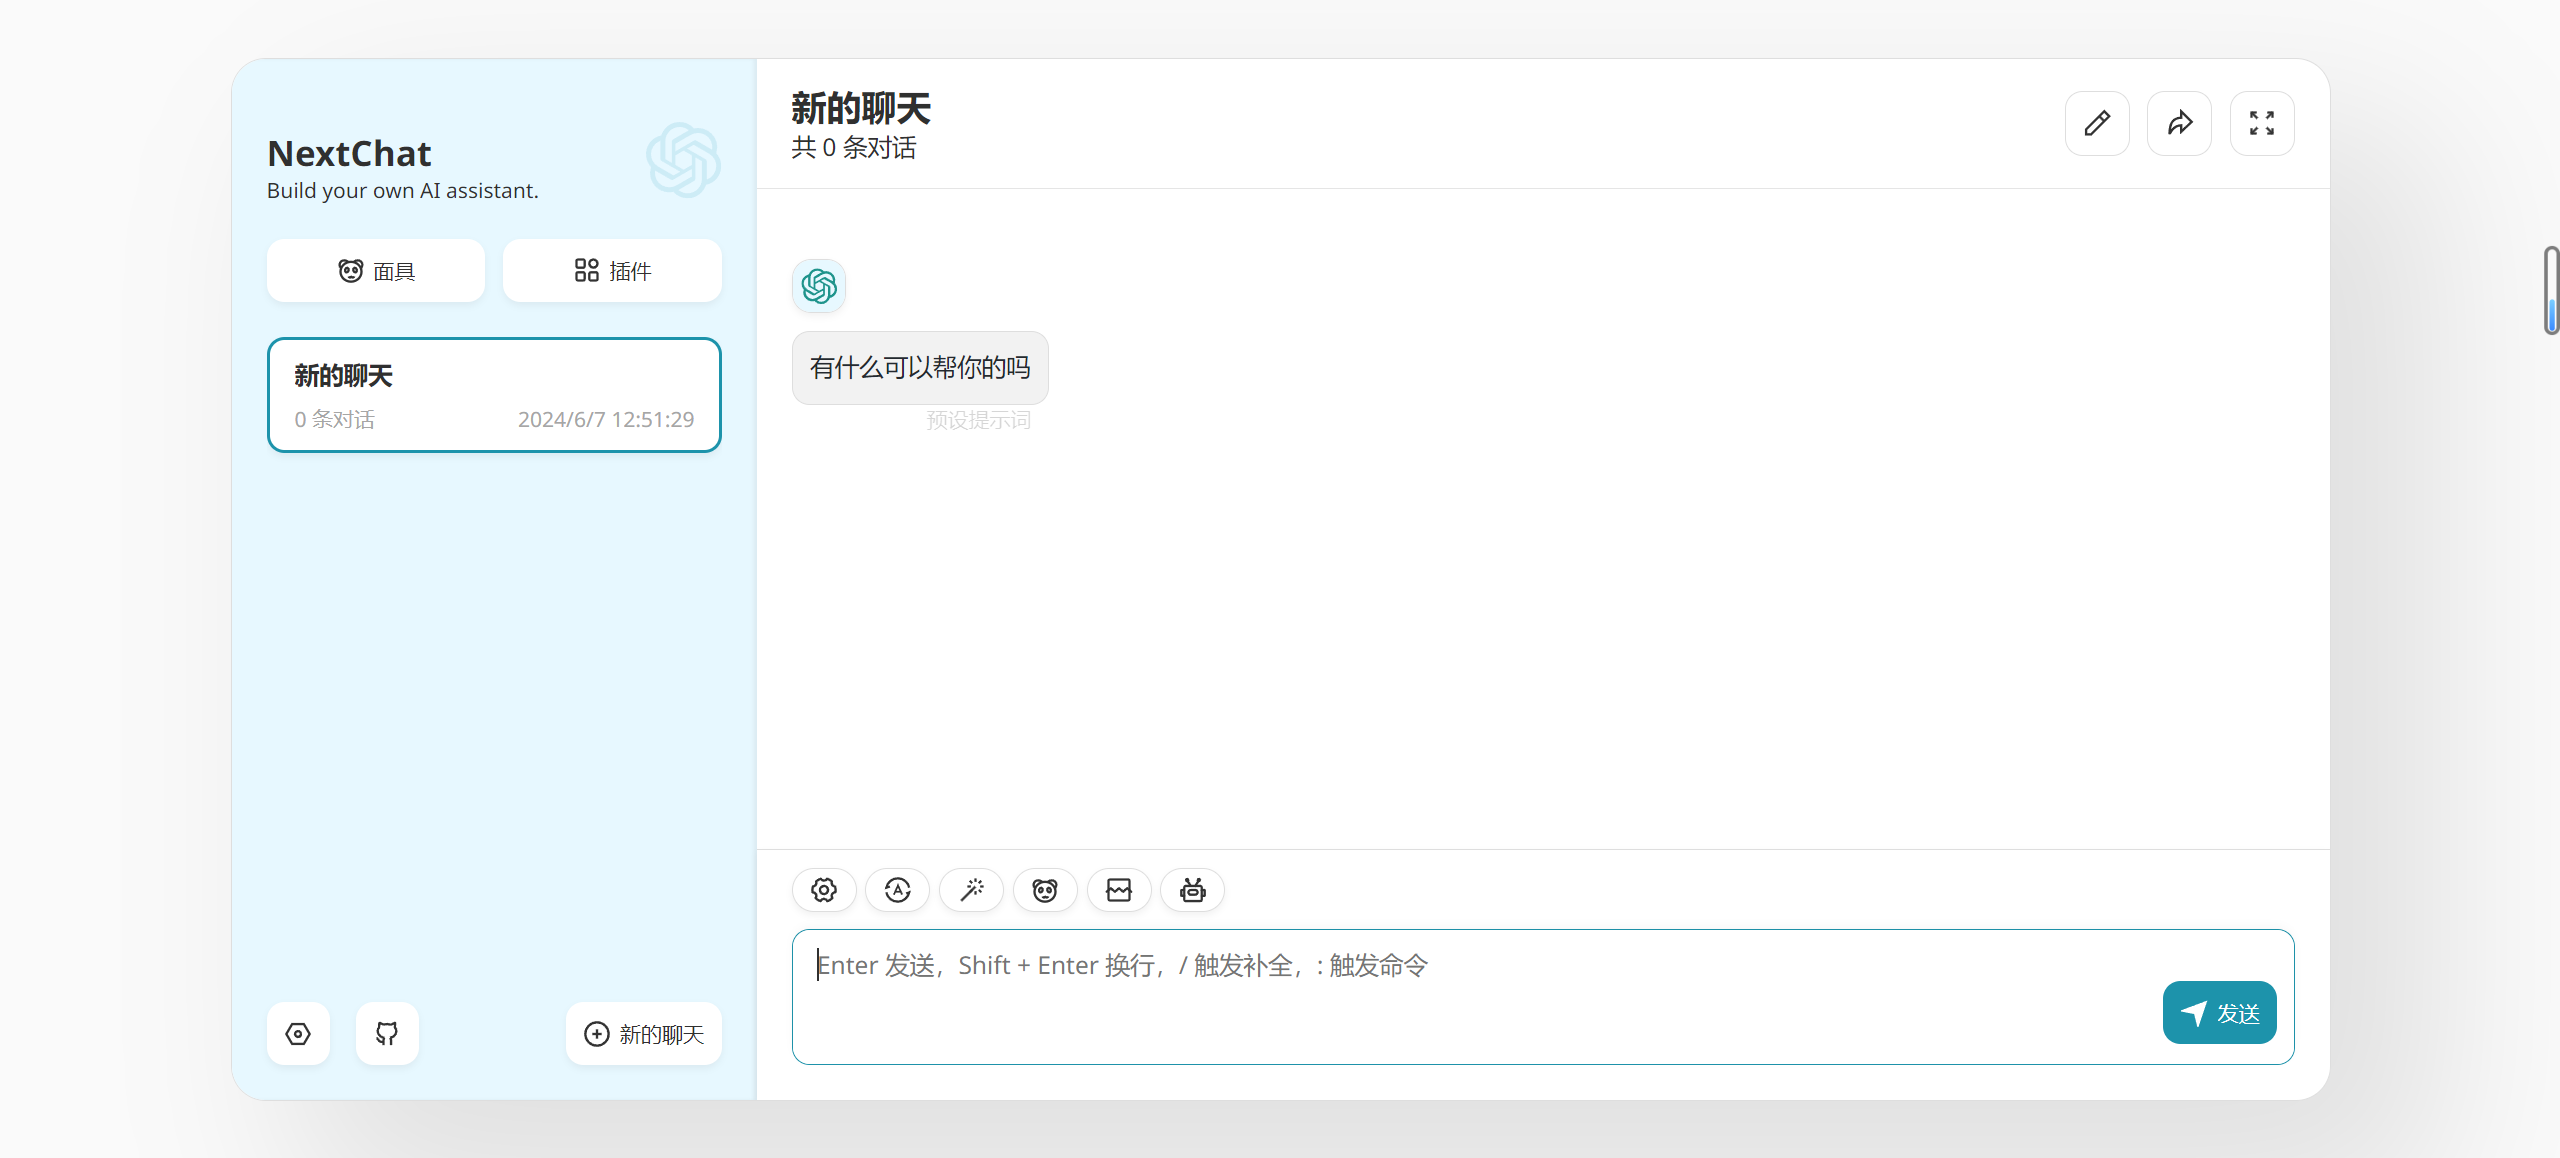
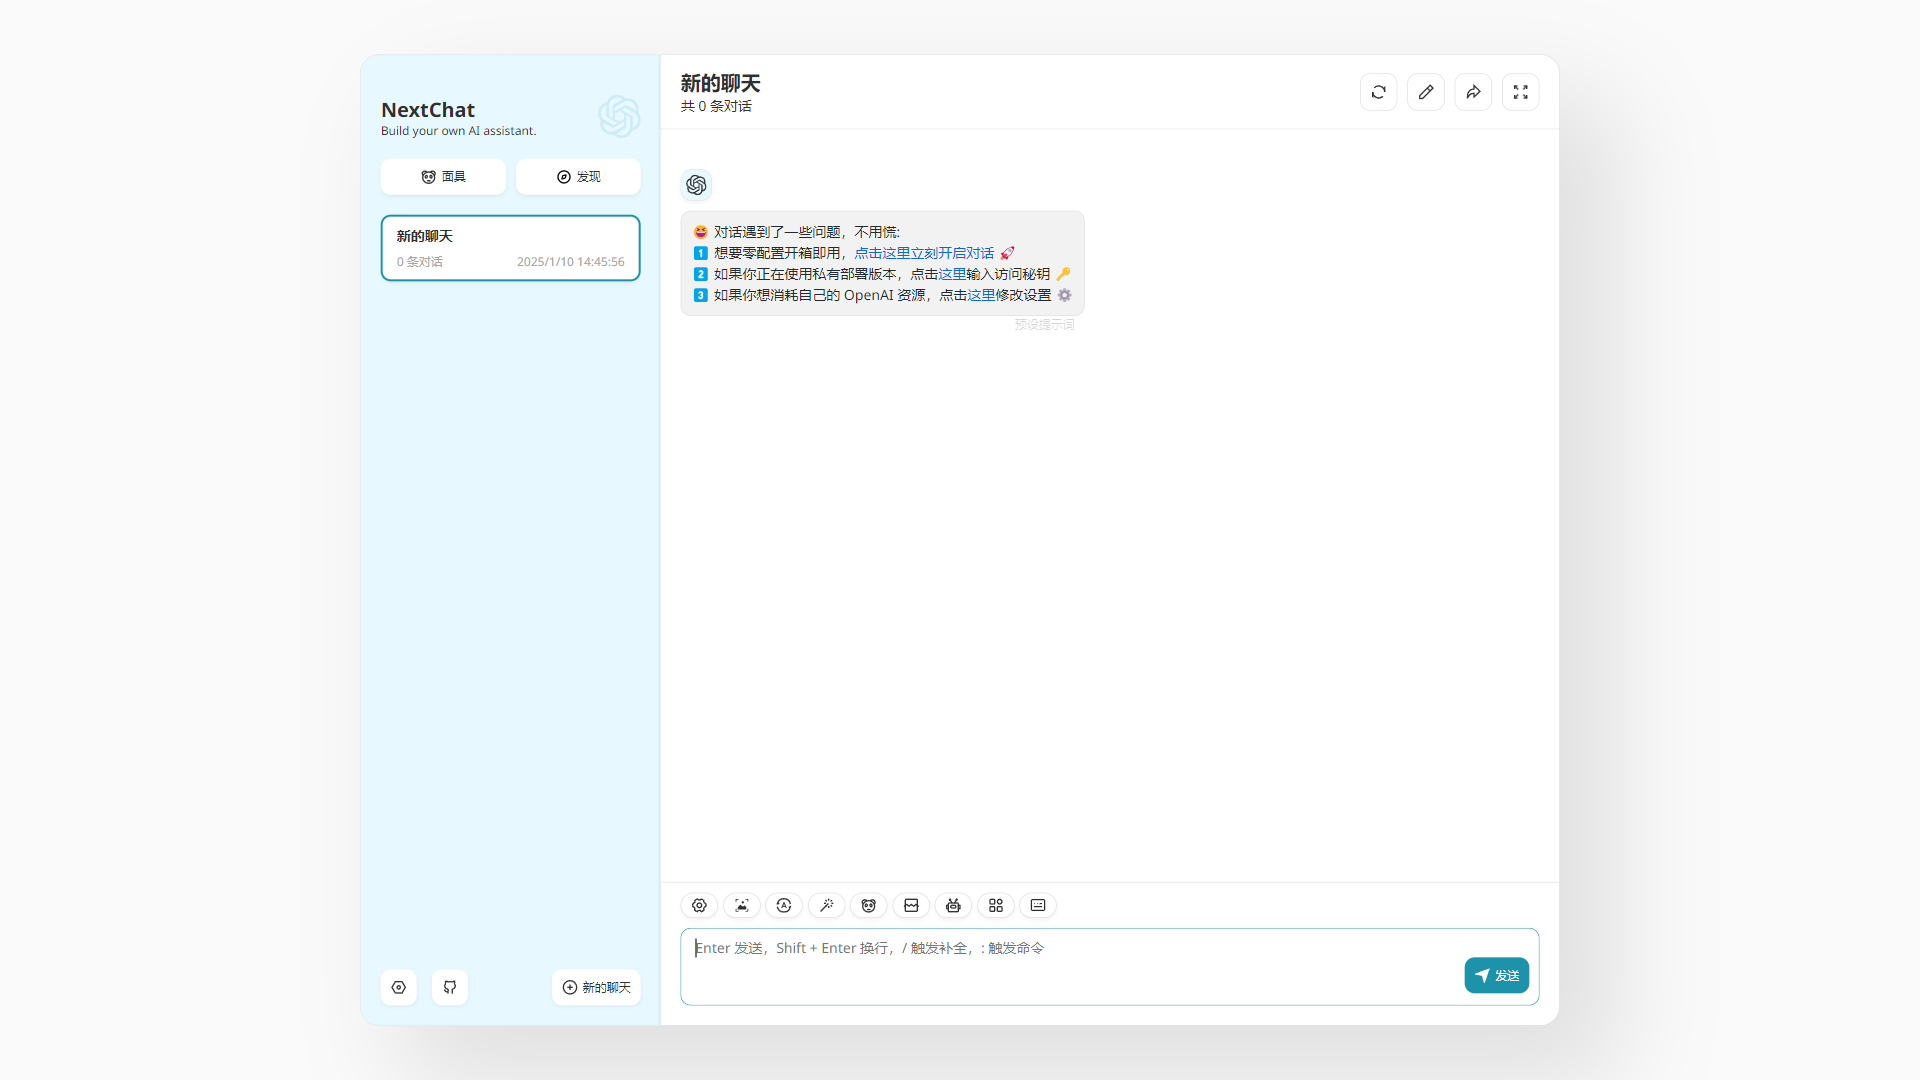
feat(public): 更新网站截图

diff --git a/scripts/get-site-screenshot.js b/scripts/get-site-screenshot.js
@@ -21,9 +21,15 @@ async function run() {
       url: "https://www.jianshu.com/u/2b406a3be47b",
       filename: "jianshu.png",
     },
+    {
+      url: "https://chat-gpt-next-web-tau-silk-44.vercel.app",
+      filename: "chat.png",
+    },
   ];
   for (const item of arr) {
     await page.goto(item.url);
+
+    await sleep(1000);
 
     const filename = path.join(__dirname, "../public", item.filename);
 
@@ -44,4 +50,8 @@ async function createPage() {
   await page.setViewport({ width: 1920, height: 1080 });
 
   return { browser, page };
+}
+
+function sleep(ms) {
+  return new Promise((resolve) => setTimeout(resolve, ms));
 }
